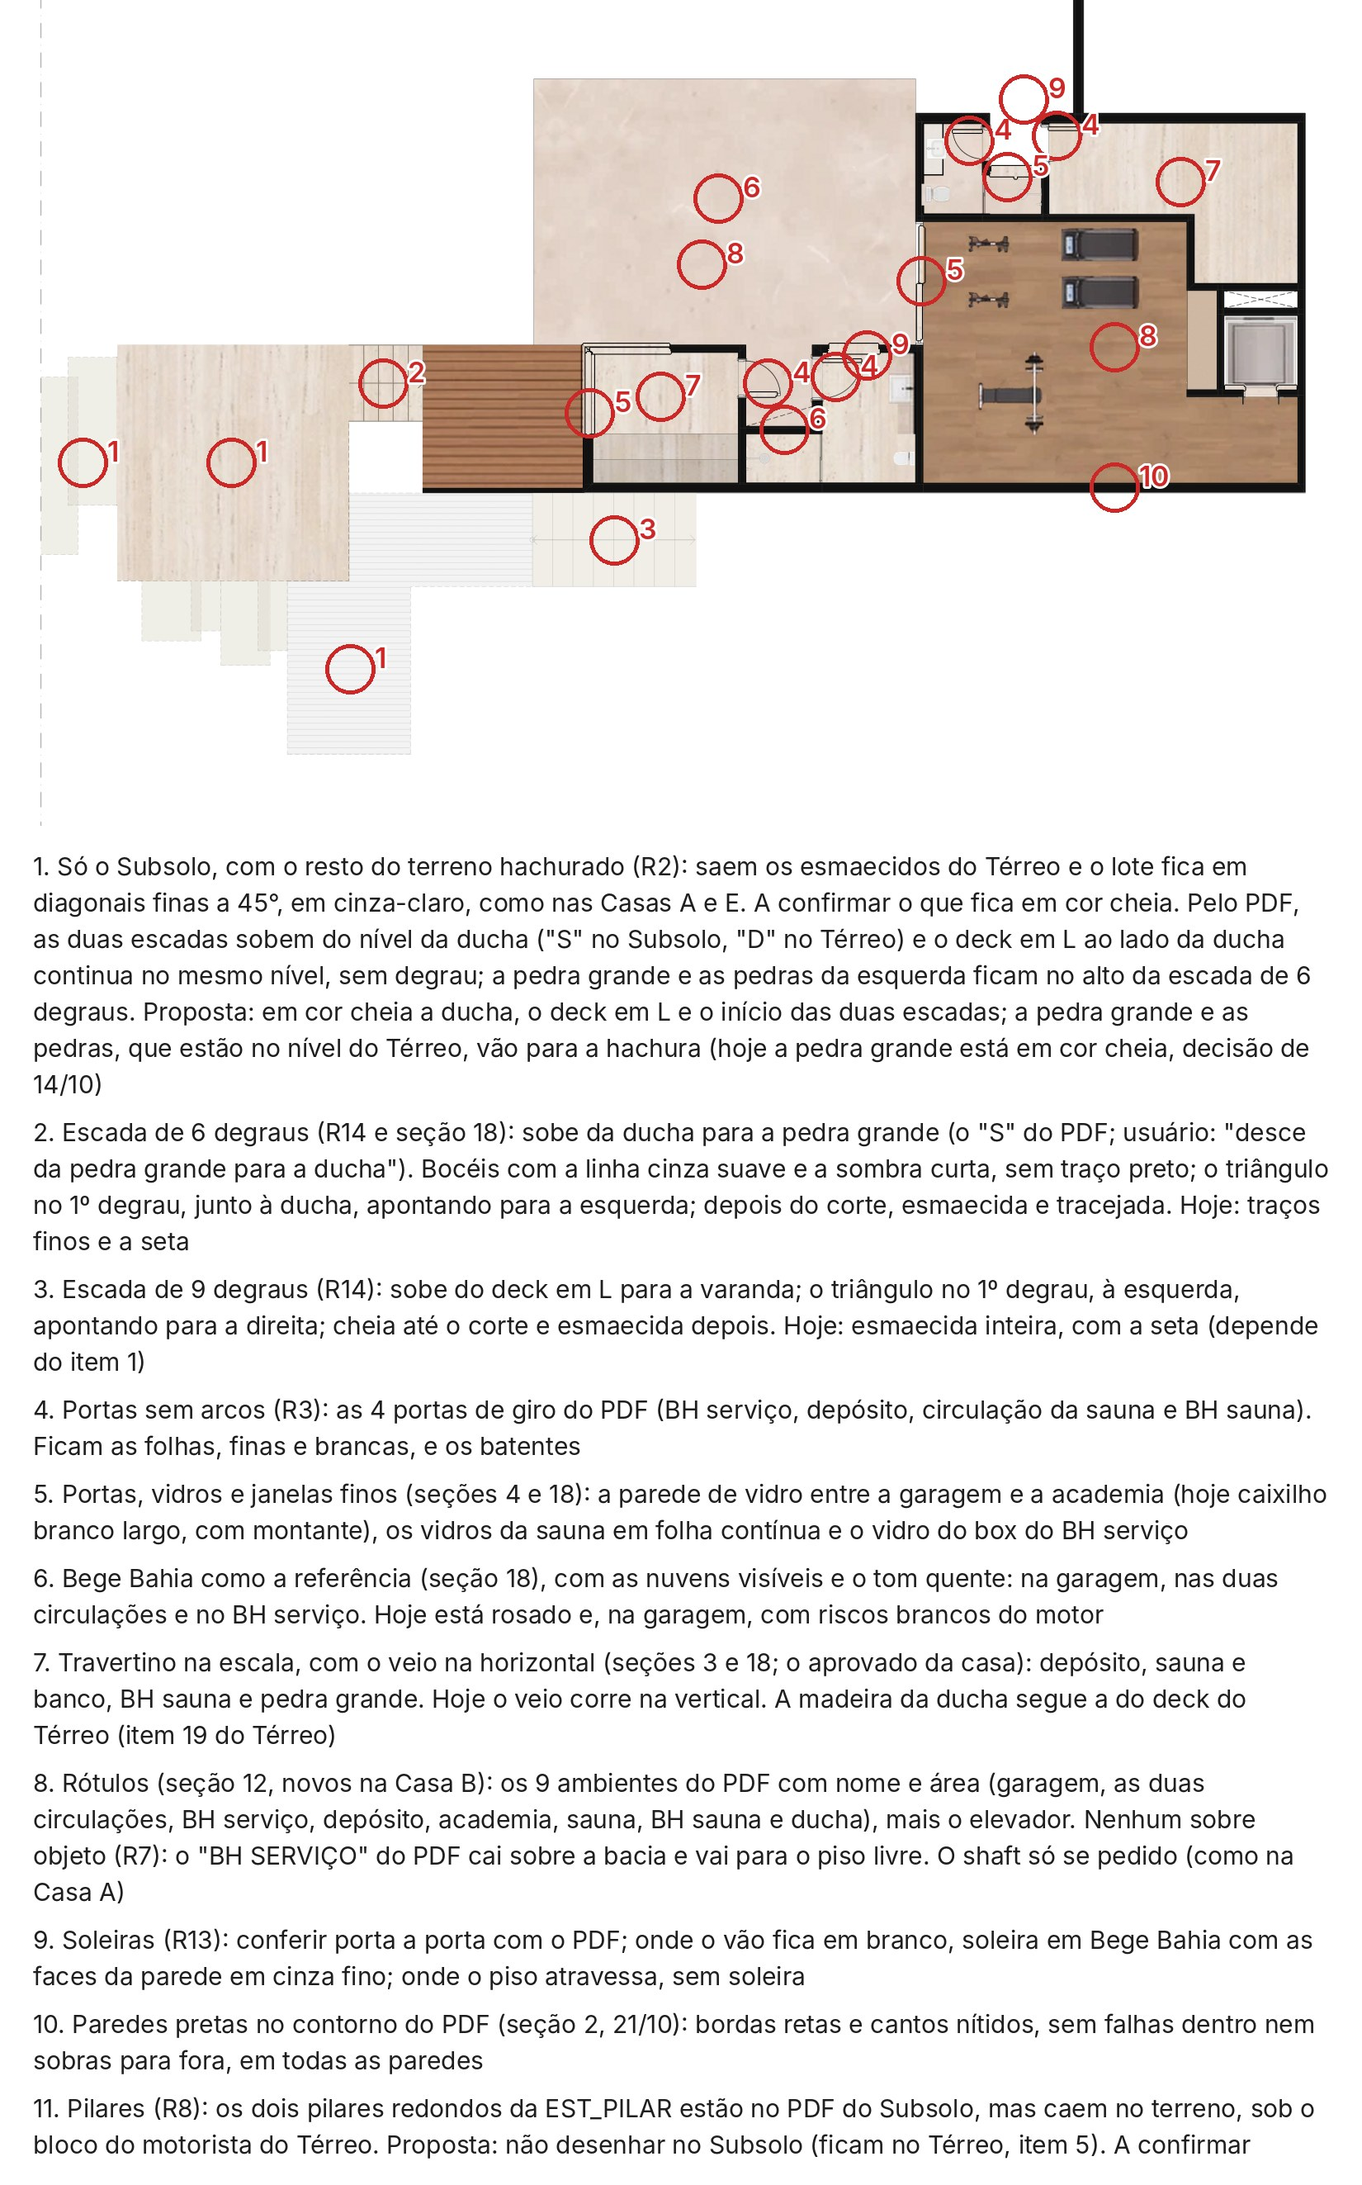
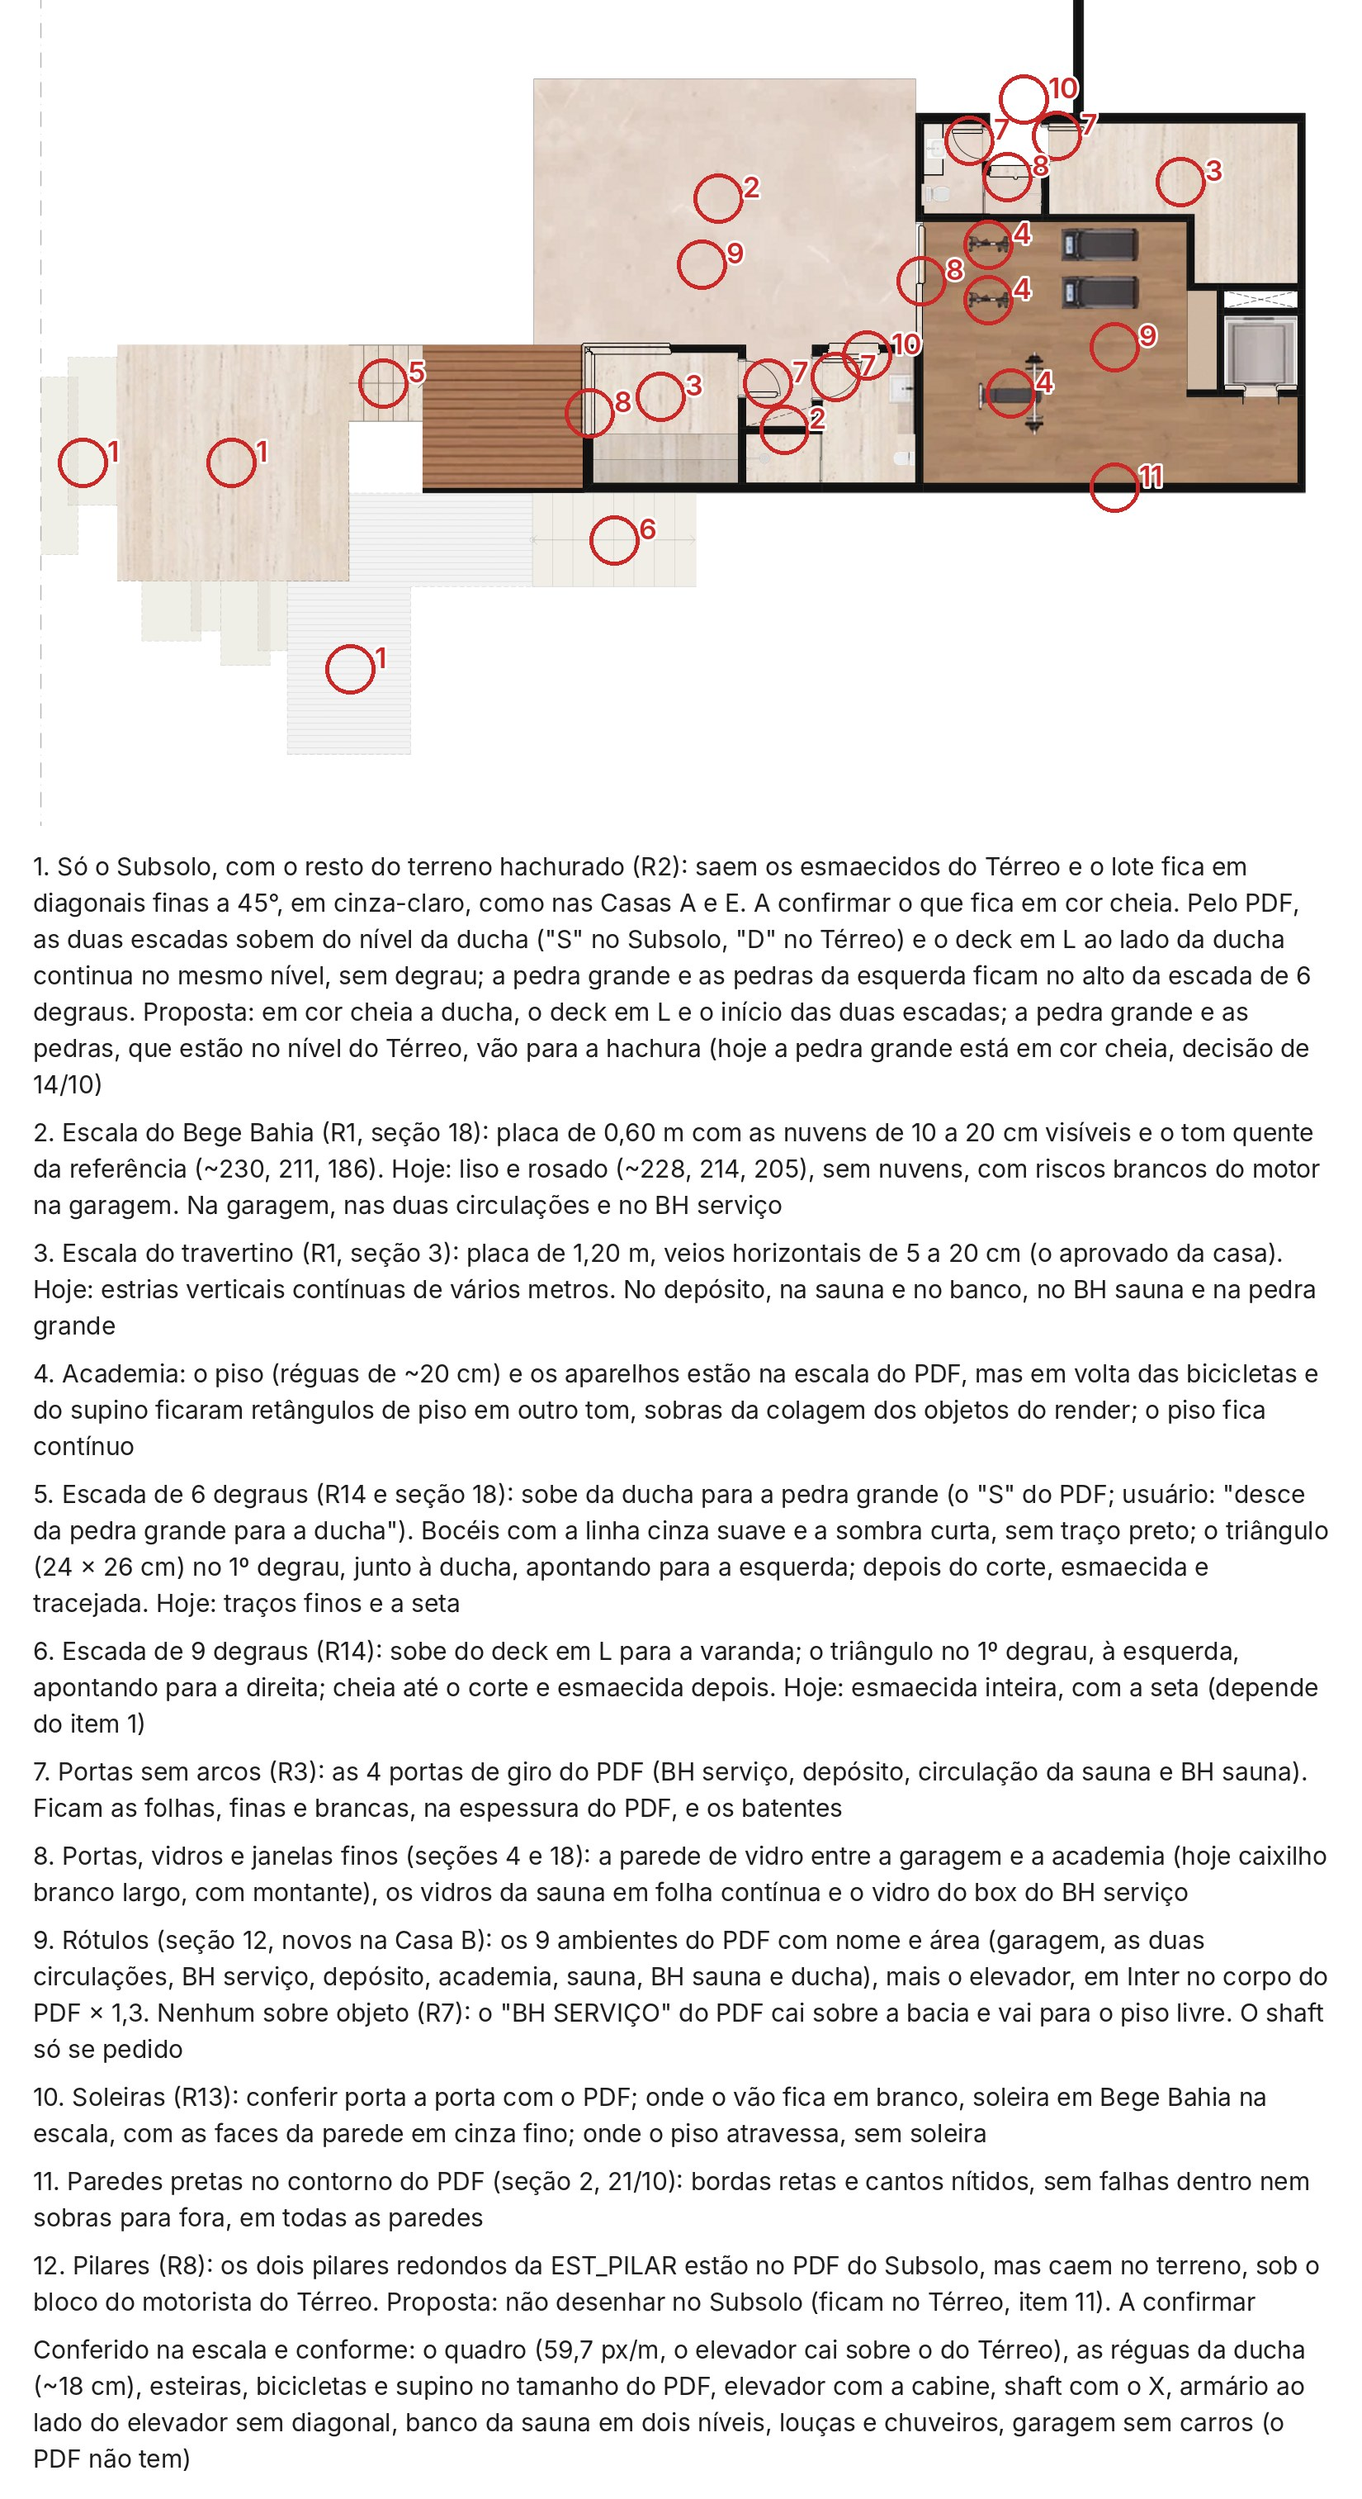
POE642 Casa B: pente fino com as escalas medidas (Térreo 25 itens, Subsolo 12)
Pedido do usuário: "ATENÇÃO ÀS ESCALAS". Pisos da prancha ao lado dos da
biblioteca na mesma escala, vegetação com régua de 1 m e móveis, louças e
carros sobre o contorno do PDF; os itens de escala vão para o topo das
listas. Folha de conferência (conferencia_casab.py --escalas) e regra nova
na seção 2.

Claude-Session: https://claude.ai/code/session_01Mm19WX3KoLN1nXMDF5Ay3F

Changed region(s): [[0.0309, 0.031, 0.9891, 0.9917]]

diff --git a/projetos/POE642_HANDOFF_SESSAO_LOCAL.md b/projetos/POE642_HANDOFF_SESSAO_LOCAL.md
@@ -238,7 +238,7 @@ python texturizar_base.py Terreo ../../POE642_CasaB/bases/POE642_CasaB_BASE_Terr
 - **Depois do render:** `elementos_do_render.py` (móveis, carros, louças e as touceiras de plantas) e `acabamentos_finais.py`, como no Subsolo.
 
 **Próximos passos:**
-- **Pente fino pelas regras (21/10/26):** ver a seção "Casa B · pente fino pelas regras", no fim; a lista (24 itens no Térreo, 11 no Subsolo) aguarda a confirmação do usuário.
+- **Pente fino pelas regras (21/10/26):** ver a seção "Casa B · pente fino pelas regras", no fim; a lista (25 itens no Térreo e 12 no Subsolo, com as escalas primeiro) aguarda a confirmação do usuário.
 1. **Casa B entregue** (Subsolo e Térreo, pranchas e PDF). Falta só a resposta do usuário sobre a peça branca comprida abaixo do lavatório gourmet, do lado de fora; com ela, retocar a imagem final do Térreo e refazer a prancha e o PDF:
    `python rodape_entrega.py --config ../../POE642_CasaB/config_bases.json --render Subsolo=../../POE642_CasaB/renders/POE642_CasaB_PH_Subsolo_final.png --render Terreo=../../POE642_CasaB/renders/POE642_CasaB_PH_Terreo_v4_retocado.png && python pdf_entrega.py --config ../../POE642_CasaB/config_bases.json`
 2. **Opcional, mais nitidez nos objetos:** passar o render num upscaler de IA (Higgsfield `upscale_image`) antes do `elementos_do_render.py`. Isso gasta créditos, então só com autorização.
@@ -1901,45 +1901,52 @@ Pedido do usuário: "SEGUIMOS PARA A CASA B" (a ordem da seção 17 das regras: 
 - **Como foi conferido:** o PDF de cada pavimento, renderizado a 1,2 px/pt, foi levado ao quadro da prancha pelo alinhamento das paredes (ECC afim): prancha ≈ PDF × 0,878 + (126,5; −238), igual nos dois pavimentos. Lado a lado, trecho a trecho, e com as camadas DOC_LINHAS E PROJEÇÕES, ARQ_ELEMENTOS FIXOS, EST_PILAR e ARQ_ESCADAS E RAMPAS desenhadas por cima da prancha.
 - **Mapas:** `conferencia_casab.py` (em `POE642_CasaA/scripts/`), com os itens em `PENTE_FINO` (pontos em px da prancha de 3840): `POE642_CasaB/renders/POE642_CasaB_PH_{Subsolo,Terreo}_pente_fino_mapa.jpg`.
 - **Leitura das escadas no PDF:** as duas escadas externas aparecem nos dois PDFs, com "S" no Subsolo e "D" no Térreo. A de 6 degraus liga a ducha (embaixo) à pedra grande (em cima); a de 9 degraus liga o deck em L ao lado da piscina (embaixo, no nível da ducha, sem degrau entre eles) à varanda (em cima).
-- **Térreo (24 itens):**
-  1. rótulos novos (seção 12): 37 ambientes com nome e área, mais o elevador; brancos no granito (R6); nenhum sobre objeto (R7: SUÍTE 3, PRAINHA e LAVABO caem sobre a cama, a espreguiçadeira e a bancada). A confirmar: o "SUÍTE 2 · 15,71 m²" solto atrás da suíte master (proposta: não entra) e o banho da suíte master, que no PDF se chama "SUÍTE MASTER · 13,7 m²";
-  2. portas sem arcos (R3): as ~25 de giro e a pivotante do hall, com a folha até a ponta do PDF;
-  3. as duas escadas com linhas e triângulo (R14): no Térreo, as duas descem (triângulo no topo);
-  4. carros prata, alinhados e iguais (R12; hoje branco, prata e grafite);
-  5. os 2 pilares redondos da EST_PILAR no bloco do motorista, em preto (R8; hoje não aparecem);
-  6. o X tracejado do jardim de inverno por cima das plantas (R8); sai o X que o motor desenhou no hall interno, em volta do pufe;
-  7. os portões em zigue-zague da ARQ_ELEMENTOS FIXOS (jardim do hall e área descoberta, os dois para a garagem). A confirmar se são portões ou brises, e a cor;
-  8. armários até o teto sem a diagonal (closet master, suítes 1, 2 e 3);
-  9. eletrodomésticos em inox (os quadrados sem diagonal da cozinha e o "Ref." do gourmet);
-  10. cooktops com as 5 bocas do PDF (gourmet e ilha da cozinha);
-  11. adega com a prateleira de vinhos (hoje um banco bege);
-  12. sala íntima: a bancada clara com cuba do PDF (hoje um móvel de madeira com um enfeite);
-  13. elevador com a porta e a soleira em inox; proposta: a cabine do Subsolo, como nas Casas C, D e E;
-  14. portas, vidros e janelas finos;
-  15. cortinas de linho com trilho de parede a parede (suíte master, sala íntima, suítes 1, 2 e 3);
-  16. granito marrom da referência (hoje RGB ~90, 60, 58; a referência é ~118, 89, 69);
-  17. pedra portuguesa em leque, no tom da foto (hoje caramelo em trama);
-  18. travertino com o veio na horizontal (hoje na vertical);
-  19. grama e madeira da referência (R4): o deck já tem réguas de ~19 cm, mas o tom é avermelhado (~170, 114, 86); a confirmar a troca do tom (também na ducha do Subsolo);
-  20. vegetação da biblioteca, no tamanho real, só dentro do lote (a do motor passa do muro e do lote);
-  21. paredes pretas no contorno do PDF (seção 2, 21/10);
-  22. soleiras (R13), porta a porta;
-  23. pedidos de 21/10 na Casa A, a confirmar para a Casa B: roupa de cama, quartzito Carrara, boxes com as folhas contínuas e banquetas de linho;
-  24. a peça branca comprida abaixo do lavatório gourmet (pendente desde a entrega): a confirmar o que é.
-  - **Conformes:** piscina em Barlavento com o spa e a prainha, mesas redondas e estar da varanda, living e jantar (10 lugares), pufe do hall, suítes com os bancos e os criados do PDF, banhos (bacias, cubas, chuveiros), louceiro, despensa, tanques, banco em L de bronze no deck, pisantes, shafts com o X, réguas do deck na escala.
-- **Subsolo (11 itens):**
+- **"ATENÇÃO ÀS ESCALAS" (usuário, depois do primeiro mapa):** a conferência foi refeita medindo as escalas, que passaram para o topo das listas.
+  - **Quadro:** 59,7 px/m nos dois pavimentos (o PDF a 1:50); o elevador do Subsolo cai sobre o do Térreo.
+  - **Pisos:** cada piso da prancha foi posto ao lado do da biblioteca na mesma escala (`texturas.textura`, trechos de 1,5 × 1,5 m, com régua de 1 m). Folha: `POE642_CasaB/renders/POE642_CasaB_PH_escalas_conferencia.jpg` (`conferencia_casab.py --escalas`).
+  - **Vegetação:** medida folha a folha com a régua de 1 m.
+  - **Móveis, louças e carros:** os contornos do PDF (ARQ_MOBILIÁRIO, ARQ_LAYOUT HUMANIZAÇÃO, ARQ_LOUÇAS E METAIS, ARQ_BANCADAS, marcenaria e elementos fixos) foram desenhados por cima da prancha: camas, bancos, criados, sofás, poltronas, mesas, cadeiras, bacias, cubas, tanques, espreguiçadeiras e aparelhos da academia batem com o PDF. Os carros são o bloco do PDF, de ~4,4 × 1,8 m.
+- **Térreo (25 itens):**
+  1. vegetação de 1,5 a 3 vezes o tamanho real: costela-de-adão com folhas de ~1,5 m (a real chega a ~0,9 m), samambaias com frondes de ~2,6 m, estrelícias com a flor de ~1,2 m, leques de palmeira de ~2,2 m no jardim de inverno; e passa do muro e do lote. Entram as plantas da biblioteca no tamanho real, só dentro do lote;
+  2. pedra portuguesa: hoje uma trama regular de quadrinhos de ~15 cm, em caramelo; a pedra é de 6 a 8 cm, em leque, no tom da foto;
+  3. granito marrom: hoje quase liso, com estrias verticais, sem grão e mais escuro (~90, 60, 58); a referência tem nuvens e lascas, em ~118, 89, 69;
+  4. travertino: hoje estrias verticais contínuas de vários metros; a placa é de 1,20 m, com veios horizontais de 5 a 20 cm;
+  5. vinílico (suítes, closet, sala íntima, circulação): hoje liso, sem réguas; as réguas são de ~20 cm, claras, em tons alternados (R4);
+  6. grama (grão miúdo e mais clara que a referência, que tem manchas de 0,5 a 1 m) e o tom do deck (as réguas já estão na escala, ~19 cm; o tom é avermelhado). A confirmar a troca do tom do deck, também na ducha do Subsolo;
+  7. carros prata, alinhados, de 4,70 × 1,85 m (R12; hoje o bloco do PDF, de ~4,4 × 1,8 m, em três cores);
+  8. rótulos novos (seção 12): 37 ambientes com nome e área, mais o elevador; brancos no granito (R6); nenhum sobre objeto (R7: SUÍTE 3, PRAINHA e LAVABO caem sobre a cama, a espreguiçadeira e a bancada). A confirmar: o "SUÍTE 2 · 15,71 m²" solto atrás da suíte master (proposta: não entra) e o banho da suíte master, que no PDF se chama "SUÍTE MASTER · 13,7 m²";
+  9. portas sem arcos (R3): as ~25 de giro e a pivotante do hall, com a folha até a ponta do PDF;
+  10. as duas escadas com linhas e triângulo (R14): no Térreo, as duas descem (triângulo no topo);
+  11. os 2 pilares redondos da EST_PILAR no bloco do motorista, em preto (R8; hoje não aparecem);
+  12. o X tracejado do jardim de inverno por cima das plantas (R8); sai o X que o motor desenhou no hall interno, em volta do pufe;
+  13. os portões em zigue-zague da ARQ_ELEMENTOS FIXOS (jardim do hall e área descoberta, os dois para a garagem). A confirmar se são portões ou brises, e a cor;
+  14. armários até o teto sem a diagonal (closet master, suítes 1, 2 e 3);
+  15. eletrodomésticos em inox (os quadrados sem diagonal da cozinha e o "Ref." do gourmet);
+  16. cooktops com as 5 bocas do PDF (gourmet e ilha da cozinha);
+  17. adega com a prateleira de vinhos (hoje um banco bege);
+  18. sala íntima: a bancada clara com cuba do PDF (hoje um móvel de madeira com um enfeite);
+  19. elevador com a porta e a soleira em inox; proposta: a cabine do Subsolo, como nas Casas C, D e E;
+  20. portas, vidros e janelas finos;
+  21. cortinas de linho com trilho de parede a parede (suíte master, sala íntima, suítes 1, 2 e 3);
+  22. paredes pretas no contorno do PDF (seção 2, 21/10);
+  23. soleiras (R13), porta a porta;
+  24. pedidos de 21/10 na Casa A, a confirmar para a Casa B: roupa de cama, quartzito Carrara, boxes com as folhas contínuas e banquetas de linho;
+  25. a peça branca comprida abaixo do lavatório gourmet (pendente desde a entrega): a confirmar o que é.
+  - **Conformes:** o quadro; camas, bancos, criados, sofás, poltronas, mesas e cadeiras, bacias, cubas, tanques e espreguiçadeiras no contorno do PDF; réguas do deck (~19 cm); piscina em Barlavento com o spa e a prainha; pufe do hall; banco em L de bronze no deck; pisantes; shafts com o X.
+- **Subsolo (12 itens):**
   1. só o Subsolo, com o resto do terreno hachurado (R2). A confirmar o que fica em cor cheia; proposta: a ducha, o deck em L e o início das duas escadas (o nível do Subsolo); a pedra grande e as pedras da esquerda, no nível do Térreo, vão para a hachura (hoje a pedra grande está em cor cheia, decisão de 14/10);
-  2. escada de 6 degraus: sobe da ducha para a pedra grande, triângulo no 1º degrau junto à ducha;
-  3. escada de 9 degraus: sobe do deck em L, triângulo no 1º degrau, cheia até o corte (depende do item 1);
-  4. portas sem arcos (R3): as 4 do PDF;
-  5. vidros finos: a parede de vidro entre a garagem e a academia, os vidros da sauna e o box do BH serviço;
-  6. Bege Bahia como a referência (seção 18) na garagem, nas circulações e no BH serviço (hoje rosado, com riscos brancos);
-  7. travertino com o veio na horizontal (depósito, sauna e banco, BH sauna, pedra grande);
-  8. rótulos novos: 9 ambientes mais o elevador; o "BH SERVIÇO" do PDF cai sobre a bacia (R7);
-  9. soleiras (R13);
-  10. paredes pretas no contorno do PDF;
-  11. os 2 pilares da EST_PILAR caem no terreno, sob o bloco do motorista; proposta: não desenhar no Subsolo. A confirmar.
-  - **Conformes:** academia (aparelhos do PDF, vinílico da Casa A), elevador com a cabine, shaft com o X, armário ao lado do elevador sem diagonal, banco da sauna em dois níveis, louças e chuveiros, garagem sem carros (o PDF não tem; decisão do usuário).
+  2. Bege Bahia: hoje liso e rosado, sem as nuvens de 10 a 20 cm da placa de 0,60 m (seção 18), com riscos brancos na garagem; na garagem, nas circulações e no BH serviço;
+  3. travertino: hoje estrias verticais de vários metros; placa de 1,20 m, veios horizontais (depósito, sauna e banco, BH sauna, pedra grande);
+  4. academia: piso (~20 cm) e aparelhos na escala do PDF, mas com retângulos de piso de outro tom em volta das bicicletas e do supino (sobras da colagem);
+  5. escada de 6 degraus: sobe da ducha para a pedra grande, triângulo no 1º degrau junto à ducha;
+  6. escada de 9 degraus: sobe do deck em L, triângulo no 1º degrau, cheia até o corte (depende do item 1);
+  7. portas sem arcos (R3): as 4 do PDF;
+  8. vidros finos: a parede de vidro entre a garagem e a academia, os vidros da sauna e o box do BH serviço;
+  9. rótulos novos: 9 ambientes mais o elevador; o "BH SERVIÇO" do PDF cai sobre a bacia (R7);
+  10. soleiras (R13);
+  11. paredes pretas no contorno do PDF;
+  12. os 2 pilares da EST_PILAR caem no terreno, sob o bloco do motorista; proposta: não desenhar no Subsolo. A confirmar.
+  - **Conformes:** o quadro; réguas da ducha (~18 cm); esteiras, bicicletas e supino no tamanho do PDF; elevador com a cabine, shaft com o X, armário ao lado do elevador sem diagonal, banco da sauna em dois níveis, louças e chuveiros, garagem sem carros (o PDF não tem; decisão do usuário).
 - **Ordem proposta:** o Térreo primeiro, porque o lote hachurado do Subsolo sai do Térreo final (como nas Casas A e E). A imagem final do Térreo da Casa B é o render retocado (`renders/POE642_CasaB_PH_Terreo_v4_retocado_barlavento.png`, 2000 × 1116), e a do Subsolo, a final em 6905 px; os retoques vão precisar de um `ajustes_casab.py` próprio, que reaproveita as rotinas da Casa A.
 
 ## Casas A a D · Barlavento nas piscinas

diff --git a/projetos/POE642_CasaA/scripts/README.md b/projetos/POE642_CasaA/scripts/README.md
@@ -660,7 +660,10 @@ O mesmo mapa do pente fino pelas regras (21/10/26), sobre as pranchas de entrega
 ```bash
 python3 conferencia_casab.py            # -> ../../POE642_CasaB/renders/POE642_CasaB_PH_{Subsolo,Terreo}_pente_fino_mapa.jpg
 python3 conferencia_casab.py Terreo
+python3 conferencia_casab.py --escalas  # -> ../../POE642_CasaB/renders/POE642_CasaB_PH_escalas_conferencia.jpg
 ```
+
+**Escalas (usuário, 21/10/26: "ATENÇÃO ÀS ESCALAS"):** os itens de escala vêm primeiro em `PENTE_FINO`. Com `--escalas`, sai a folha de conferência: cada piso da prancha (`ESCALA_PISOS`, trechos de 1,5 × 1,5 m sem móveis) ao lado do da biblioteca na mesma escala (`_texturas/texturas.textura` a 59,7 px/m), ampliados 6 vezes, e a vegetação (`ESCALA_VEGETACAO`) com uma régua de 1 m. Os itens de `PENTE_FINO` com número `None` são notas sem marca no mapa (os conformes).
 
 Para conferir, o PDF (renderizado a 1,2 px/pt) foi levado ao quadro da prancha pelo alinhamento das paredes (`cv2.findTransformECC`, afim): prancha ≈ PDF × 0,878 + (126,5; −238), nos dois pavimentos.
 
